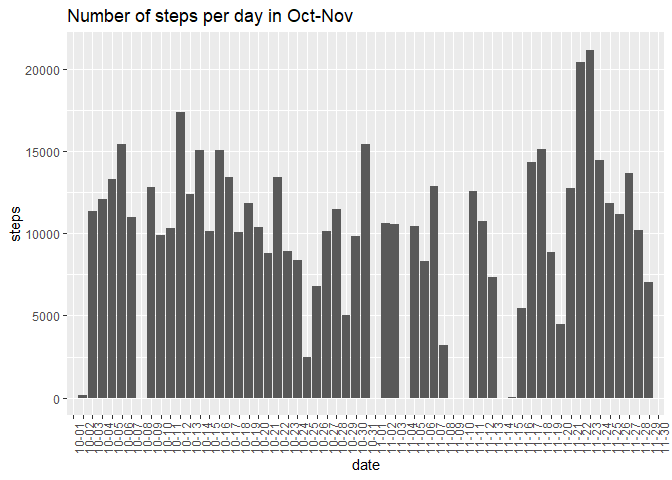
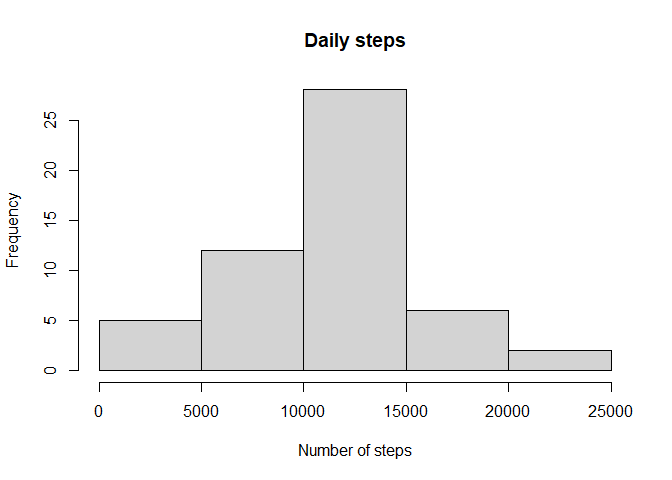
Files for peer review

diff --git a/PA_1.html b/PA_1.html
@@ -387,22 +387,16 @@ summary(data)</code></pre>
 </div>
 <div id="what-is-mean-total-number-of-steps-taken-per-day" class="section level2">
 <h2>What is mean total number of steps taken per day?</h2>
-<pre class="r"><code>##Calculate and report the mean and median total number of steps taken per day
-mean(data$steps, na.rm = TRUE)</code></pre>
-<pre><code>## [1] 37.3826</code></pre>
-<pre class="r"><code>median(data$steps, na.rm = TRUE)</code></pre>
-<pre><code>## [1] 0</code></pre>
 <pre class="r"><code>##Make a histogram of the total number of steps taken each day
 library(plyr)
-s &lt;- ddply(data,&quot;date&quot;,summarize,steps=sum(steps))
-library(ggplot2)
-ggplot(s,aes(x=format(date,&quot;%m-%d&quot;),y=steps))+
-        geom_bar(stat=&quot;identity&quot;)+
-        labs(x=&quot;date&quot;)+
-        theme(axis.text.x = element_text(angle = 90))+
-        ggtitle(&quot;Number of steps per day in Oct-Nov&quot;)</code></pre>
-<pre><code>## Warning: Removed 8 rows containing missing values (position_stack).</code></pre>
[1 lines of base64/hex data omitted]
+data_NAs &lt;- ddply(data,&quot;date&quot;,summarize,steps=sum(steps))
+hist(data_NAs$steps, main = &quot;Daily steps&quot;, xlab = &quot;Number of steps&quot;)</code></pre>
[1 lines of base64/hex data omitted]
+<pre class="r"><code>##Calculate and report the mean and median total number of steps taken per day
+mean(data_NAs$steps, na.rm = TRUE)</code></pre>
+<pre><code>## [1] 10766.19</code></pre>
+<pre class="r"><code>median(data_NAs$steps, na.rm = TRUE)</code></pre>
+<pre><code>## [1] 10765</code></pre>
 </div>
 <div id="what-is-the-average-daily-activity-pattern" class="section level2">
 <h2>What is the average daily activity pattern?</h2>
@@ -425,15 +419,14 @@ summary(data$steps)</code></pre>
 <pre class="r"><code>sum(is.na(data))</code></pre>
 <pre><code>## [1] 2304</code></pre>
 <pre class="r"><code>##Devise a strategy for filling in all of the missing values in the dataset.
-data2&lt;-read.csv(&quot;activity.csv&quot;, sep = &quot;,&quot;, header = TRUE)
-data$date &lt;- as.Date(data$date)
-        ##Strategy: Impute NAs with the mean value of each interval
+
+        ##Strategy: Impute NAs with the mean value of each interval:
 
 int_mean&lt;- function (interval){
         int[int$interval==interval,]$steps}
 
 ##Create a new dataset that is equal to the original dataset but with the missing data filled in.
-data_noNAs&lt;-data2
+data_noNAs&lt;-read.csv(&quot;activity.csv&quot;, sep = &quot;,&quot;, header = TRUE)
 for(i in 1:nrow(data_noNAs)){
     if(is.na(data_noNAs[i,]$steps)){
         data_noNAs[i,]$steps &lt;- int_mean(data_noNAs[i,]$interval)
@@ -441,45 +434,40 @@ for(i in 1:nrow(data_noNAs)){
 }
 
 ##Make a histogram of the total number of steps taken each day and Calculate and report the mean and median total number of steps taken per day. Do these values differ from the estimates from the first part of the assignment? What is the impact of imputing missing data on the estimates of the total daily number of steps?
-sum_steps&lt;- ddply(data_noNAs,&quot;date&quot;,summarize,steps=sum(steps))
-sum_steps$date &lt;- as.Date(sum_steps$date)
-ggplot(sum_steps,aes(x=format(date,&quot;%m-%d&quot;),y=steps))+
-        geom_bar(stat=&quot;identity&quot;)+
-        labs(x=&quot;date&quot;)+
-        theme(axis.text.x = element_text(angle = 90))+
-        ggtitle(&quot;Number of steps per day in Oct-Nov. Imputed dataset&quot;)</code></pre>
[1 lines of base64/hex data omitted]
+sum_stepsnoNAs&lt;- ddply(data_noNAs,&quot;date&quot;,summarize,steps=sum(steps))
+hist(sum_stepsnoNAs$steps, main = &quot;Daily steps imputed data&quot;, xlab = &quot;Number of steps&quot;)</code></pre>
[1 lines of base64/hex data omitted]
 <pre class="r"><code>##Average of steps per day in data original and data imputed
-data_NAs&lt;- ddply(data,&quot;date&quot;,summarize,steps=mean(steps))
-data_noNAsaverage&lt;- ddply(data_noNAs,&quot;date&quot;,summarize,steps=mean(steps))
-summary(data_NAs$steps)</code></pre>
+summary(data_NAs$steps, na.rm=TRUE)</code></pre>
 <pre><code>##    Min. 1st Qu.  Median    Mean 3rd Qu.    Max.    NA&#39;s 
-##  0.1424 30.6979 37.3785 37.3826 46.1597 73.5903       8</code></pre>
-<pre class="r"><code>summary(data_noNAsaverage$steps)</code></pre>
+##      41    8841   10765   10766   13294   21194       8</code></pre>
+<pre class="r"><code>summary(sum_stepsnoNAs$steps)</code></pre>
 <pre><code>##    Min. 1st Qu.  Median    Mean 3rd Qu.    Max. 
-##  0.1424 34.0938 37.3826 37.3826 44.4826 73.5903</code></pre>
+##      41    9819   10766   10766   12811   21194</code></pre>
 <pre class="r"><code>##Mean values do not change with values imputed. Median increased 0.01 % from the original value:
-##(37.3826/37.37847)*100-100 = 0.01104914</code></pre>
+##(37.3826/37.37847)*100-100 = 0.009289364</code></pre>
 </div>
 <div id="are-there-differences-in-activity-patterns-between-weekdays-and-weekends" class="section level2">
 <h2>Are there differences in activity patterns between weekdays and weekends?</h2>
 <pre class="r"><code>##Create a new factor variable in the dataset with two levels -- &quot;weekday&quot; and &quot;weekend&quot; indicating whether a given date is a weekday or weekend day.
-data_noNAs$date&lt;- as.Date(strptime(data_noNAs$date, format=&quot;%Y-%m-%d&quot;))
-data_noNAs$day&lt;-weekdays(data_noNAs$date)
-for (i in 1:nrow(data_noNAs)) {
-        if (data_noNAs[i,]$day %in% c(&quot;Saturday&quot;, &quot;Sunday&quot;)){
-            data_noNAs[i,]$day&lt;-&quot;weekend&quot;    
+df&lt;-data_noNAs
+data_noNAs2&lt;-df
+data_noNAs2$date&lt;- as.Date(strptime(data_noNAs2$date, format=&quot;%Y-%m-%d&quot;))
+data_noNAs2$day&lt;-weekdays(data_noNAs2$date)
+for (i in 1:nrow(data_noNAs2)) {
+        if (data_noNAs2[i,]$day %in% c(&quot;Saturday&quot;, &quot;Sunday&quot;)){
+            data_noNAs2[i,]$day&lt;-&quot;weekend&quot;    
         }
         else{
-                data_noNAs[i,]$day&lt;-&quot;weekday&quot;
+                data_noNAs2[i,]$day&lt;-&quot;weekday&quot;
         }
 }
                 
-   ##average by weekday/weekend
-data_noNAs2&lt;-data_noNAs
+   ##average by weeknm1day/weekend
 meansteps_w&lt;- ddply(data_noNAs2,.(interval, day),summarize,steps=mean(steps))
 
 ##Make a panel plot containing a time series plot (i.e. type = &quot;l&quot;) of the 5-minute interval (x-axis) and the average number of steps taken, averaged across all weekday days or weekend days (y-axis).
+library(ggplot2)
 ggplot(meansteps_w,aes(x=interval,y=steps))+
         geom_line(stat=&quot;identity&quot;, size=1, color=&quot;purple&quot;)+
         facet_wrap(~day, dir=&quot;v&quot;)+

diff --git a/PA_1.md b/PA_1.md
@@ -47,39 +47,30 @@ summary(data)
 
 
 ```r
-##Calculate and report the mean and median total number of steps taken per day
-mean(data$steps, na.rm = TRUE)
-```
-
-```
-## [1] 37.3826
-```
-
-```r
-median(data$steps, na.rm = TRUE)
-```
-
-```
-## [1] 0
-```
-
-```r
 ##Make a histogram of the total number of steps taken each day
 library(plyr)
-s <- ddply(data,"date",summarize,steps=sum(steps))
-library(ggplot2)
-ggplot(s,aes(x=format(date,"%m-%d"),y=steps))+
-        geom_bar(stat="identity")+
-        labs(x="date")+
-        theme(axis.text.x = element_text(angle = 90))+
-        ggtitle("Number of steps per day in Oct-Nov")
-```
-
-```
-## Warning: Removed 8 rows containing missing values (position_stack).
+data_NAs <- ddply(data,"date",summarize,steps=sum(steps))
+hist(data_NAs$steps, main = "Daily steps", xlab = "Number of steps")
 ```
 
 ![](PA_1_files/figure-html/unnamed-chunk-2-1.png)<!-- -->
+
+```r
+##Calculate and report the mean and median total number of steps taken per day
+mean(data_NAs$steps, na.rm = TRUE)
+```
+
+```
+## [1] 10766.19
+```
+
+```r
+median(data_NAs$steps, na.rm = TRUE)
+```
+
+```
+## [1] 10765
+```
 
 ## What is the average daily activity pattern?
 
@@ -130,15 +121,14 @@ sum(is.na(data))
 
 ```r
 ##Devise a strategy for filling in all of the missing values in the dataset.
-data2<-read.csv("activity.csv", sep = ",", header = TRUE)
-data$date <- as.Date(data$date)
-        ##Strategy: Impute NAs with the mean value of each interval
+
+        ##Strategy: Impute NAs with the mean value of each interval:
 
 int_mean<- function (interval){
         int[int$interval==interval,]$steps}
 
 ##Create a new dataset that is equal to the original dataset but with the missing data filled in.
-data_noNAs<-data2
+data_noNAs<-read.csv("activity.csv", sep = ",", header = TRUE)
 for(i in 1:nrow(data_noNAs)){
     if(is.na(data_noNAs[i,]$steps)){
         data_noNAs[i,]$steps <- int_mean(data_noNAs[i,]$interval)
@@ -146,63 +136,58 @@ for(i in 1:nrow(data_noNAs)){
 }
 
 ##Make a histogram of the total number of steps taken each day and Calculate and report the mean and median total number of steps taken per day. Do these values differ from the estimates from the first part of the assignment? What is the impact of imputing missing data on the estimates of the total daily number of steps?
-sum_steps<- ddply(data_noNAs,"date",summarize,steps=sum(steps))
-sum_steps$date <- as.Date(sum_steps$date)
-ggplot(sum_steps,aes(x=format(date,"%m-%d"),y=steps))+
-        geom_bar(stat="identity")+
-        labs(x="date")+
-        theme(axis.text.x = element_text(angle = 90))+
-        ggtitle("Number of steps per day in Oct-Nov. Imputed dataset")
+sum_stepsnoNAs<- ddply(data_noNAs,"date",summarize,steps=sum(steps))
+hist(sum_stepsnoNAs$steps, main = "Daily steps imputed data", xlab = "Number of steps")
 ```
 
 ![](PA_1_files/figure-html/unnamed-chunk-4-1.png)<!-- -->
 
 ```r
 ##Average of steps per day in data original and data imputed
-data_NAs<- ddply(data,"date",summarize,steps=mean(steps))
-data_noNAsaverage<- ddply(data_noNAs,"date",summarize,steps=mean(steps))
-summary(data_NAs$steps)
+summary(data_NAs$steps, na.rm=TRUE)
 ```
 
 ```
 ##    Min. 1st Qu.  Median    Mean 3rd Qu.    Max.    NA's 
-##  0.1424 30.6979 37.3785 37.3826 46.1597 73.5903       8
+##      41    8841   10765   10766   13294   21194       8
 ```
 
 ```r
-summary(data_noNAsaverage$steps)
+summary(sum_stepsnoNAs$steps)
 ```
 
 ```
 ##    Min. 1st Qu.  Median    Mean 3rd Qu.    Max. 
-##  0.1424 34.0938 37.3826 37.3826 44.4826 73.5903
+##      41    9819   10766   10766   12811   21194
 ```
 
 ```r
 ##Mean values do not change with values imputed. Median increased 0.01 % from the original value:
-##(37.3826/37.37847)*100-100 = 0.01104914
+##(37.3826/37.37847)*100-100 = 0.009289364
 ```
 
 ## Are there differences in activity patterns between weekdays and weekends?
 
 ```r
 ##Create a new factor variable in the dataset with two levels -- "weekday" and "weekend" indicating whether a given date is a weekday or weekend day.
-data_noNAs$date<- as.Date(strptime(data_noNAs$date, format="%Y-%m-%d"))
-data_noNAs$day<-weekdays(data_noNAs$date)
-for (i in 1:nrow(data_noNAs)) {
-        if (data_noNAs[i,]$day %in% c("Saturday", "Sunday")){
-            data_noNAs[i,]$day<-"weekend"    
+df<-data_noNAs
+data_noNAs2<-df
+data_noNAs2$date<- as.Date(strptime(data_noNAs2$date, format="%Y-%m-%d"))
+data_noNAs2$day<-weekdays(data_noNAs2$date)
+for (i in 1:nrow(data_noNAs2)) {
+        if (data_noNAs2[i,]$day %in% c("Saturday", "Sunday")){
+            data_noNAs2[i,]$day<-"weekend"    
         }
         else{
-                data_noNAs[i,]$day<-"weekday"
+                data_noNAs2[i,]$day<-"weekday"
         }
 }
                 
-   ##average by weekday/weekend
-data_noNAs2<-data_noNAs
+   ##average by weeknm1day/weekend
 meansteps_w<- ddply(data_noNAs2,.(interval, day),summarize,steps=mean(steps))
 
 ##Make a panel plot containing a time series plot (i.e. type = "l") of the 5-minute interval (x-axis) and the average number of steps taken, averaged across all weekday days or weekend days (y-axis).
+library(ggplot2)
 ggplot(meansteps_w,aes(x=interval,y=steps))+
         geom_line(stat="identity", size=1, color="purple")+
         facet_wrap(~day, dir="v")+
